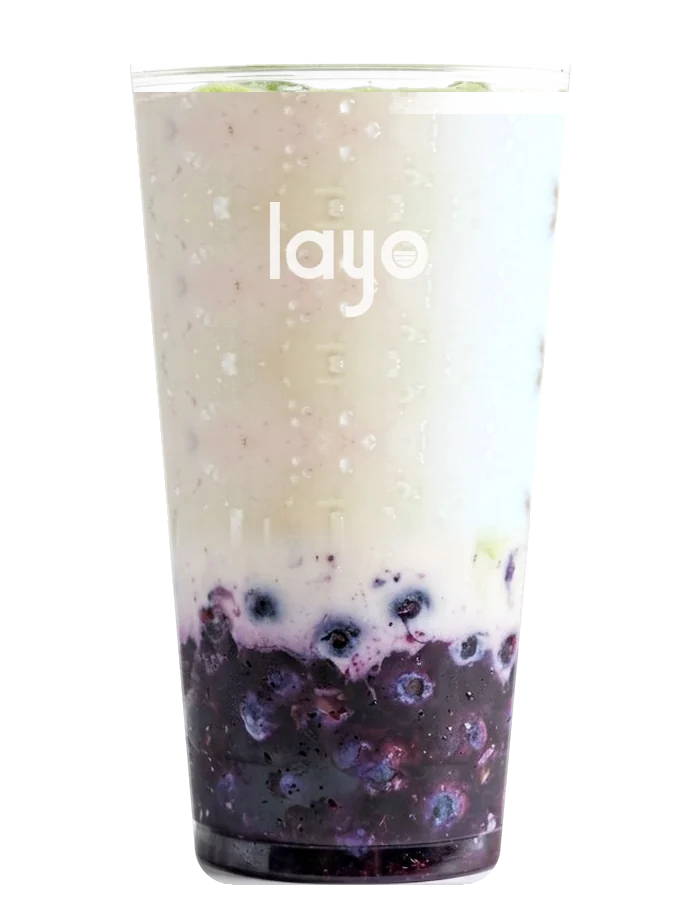
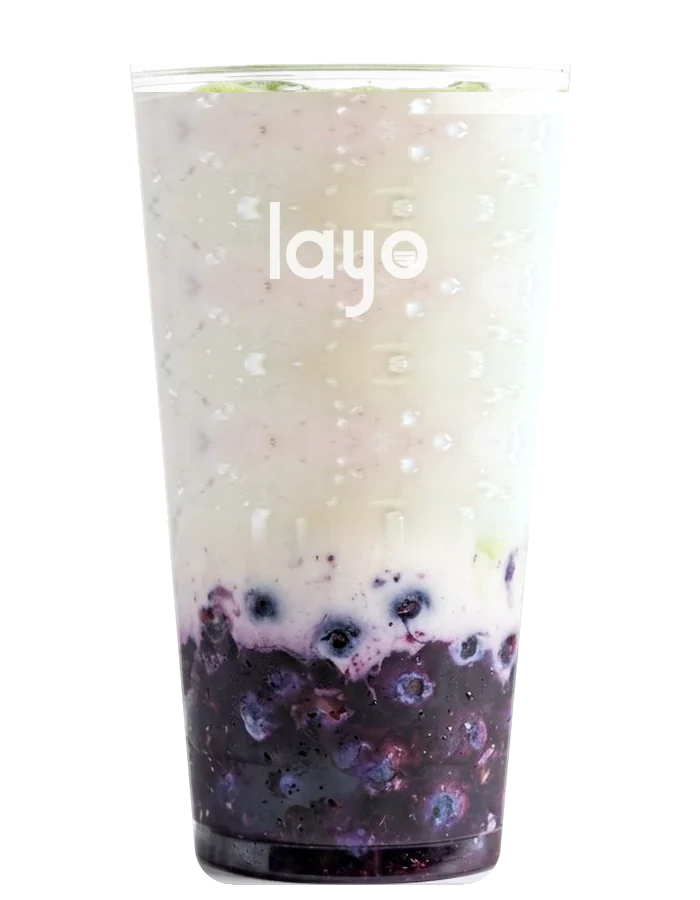
Layo: cups re-fitted from the drink's real edge (straight-line fit), no mirrored bottoms
Claude-Session: https://claude.ai/code/session_01UTJuAjWUwzzxbHTx65gk4g

diff --git a/tools/build_live.py b/tools/build_live.py
@@ -102,18 +102,28 @@ def to_ref(F, k):
     if k=='blueberry': return F, BANDS[k]
     Fw=walls(F); rr=[y for y in range(900) if Fw[y] is not None]; t,b=rr[0],rr[-1]
     G=rowmap(F,Fw,(t,b+1),F.shape,RW,(RT,RB+1)); G[:,:,3]=np.where(G[:,:,3]>0,REF[:,:,3],0)
-    # the photo's own base is narrower than the reference cup: rebuild the bottom by mirroring clean purée from above
-    B0=RB-120; Gw=walls(G); Gi=G.copy()
-    for y in range(B0, RB+1):
-        sy=2*B0-y
-        if RW[y] is None or Gw[sy] is None: continue
-        l,r=RW[y]; sl,sr=Gw[sy]; sl+=10; sr-=10
-        xs=np.linspace(sl,sr,r-l+1).astype(int); G[y,l:r+1,:3]=Gi[sy,xs,:3]
-    # and the same for a pale strip along the walls in the lower half
-    for y in range(RT+40, B0):
+    # the photo's own base is narrower than the reference cup: for every bottom row take the real drink
+    # (between the pale edges) and stretch exactly that across the reference cup, so the texture stays the photo's own
+    B0=RB-120; Gi=G.copy(); Ys=[];SL=[];SR=[]
+    for y in range(RT+40, RB+1):
+        row=Gi[y]; c=np.where(row[:,3]>0)[0]
+        if len(c)<20: continue
+        lum=row[:,:3].astype(int).mean(1); med=np.median(lum[c[0]+(c[-1]-c[0])//4:c[-1]-(c[-1]-c[0])//4])
+        good=np.where((row[:,3]>0)&(lum<med+22))[0]; good=good[(good>c[0]+8)&(good<c[-1]-8)]
+        if len(good)<20: continue
+        Ys.append(y); SL.append(good[0]+3); SR.append(good[-1]-3)
+    Ys=np.array(Ys); SL=np.array(SL); SR=np.array(SR)
+    def fit(v):   # the drink's real edge is a straight line too: robust line fit, never inside the photo's own walls
+        p=np.polyfit(Ys,v,1)
+        for _ in range(3):
+            keep=np.abs(np.polyval(p,Ys)-v)<np.percentile(np.abs(np.polyval(p,Ys)-v),70)+1; p=np.polyfit(Ys[keep],v[keep],1)
+        return p
+    pl,pr=fit(SL),fit(SR)
+    for y in range(RT+1, RB+1):
         if RW[y] is None: continue
-        l,r=RW[y]; w=r-l
-        xs=np.linspace(l+14,r-14,w+1).astype(int); G[y,l:r+1,:3]=Gi[y,xs,:3]
+        l,r=RW[y]; sl=int(max(np.polyval(pl,y),0)); sr=int(np.polyval(pr,y))
+        if sr-sl<20: continue
+        xs=np.linspace(sl,sr,r-l+1).astype(int); G[y,l:r+1,:3]=Gi[y,xs,:3]
     f=lambda y:int(RT+(y-t)*(RB-RT)/(b-t)); return G, tuple(f(v) for v in BANDS[k])
 for k,p in SRC.items():
     F,BK=to_ref(clean(np.asarray(Image.open(p).convert('RGBA'))),k); Fw=walls(F)
